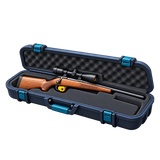
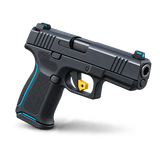
Refine firearms category presentation

diff --git a/src/routes/browse.tsx b/src/routes/browse.tsx
@@ -97,6 +97,7 @@ import {
   optionalNonNegativeNumber,
 } from "@/lib/classifieds-query";
 import { ResponsiveBrowseFilters } from "@/components/classifieds/ResponsiveBrowseFilters";
+import { Popover, PopoverContent, PopoverTrigger } from "@/components/ui/popover";
 
 type Sort = NonNullable<ClassifiedBrowseInput["sort"]>;
 type View = "grid" | "list";
@@ -2241,7 +2242,6 @@ function Browse() {
               }),
             })
           }
-          onPost={() => void navigate({ to: "/create-listing" })}
         />
       )}
 
@@ -2800,14 +2800,12 @@ function FirearmsLandingHero({
   onSearch,
   onBrowse,
   onCategory,
-  onPost,
 }: {
   term: string;
   onTermChange: (value: string) => void;
   onSearch: () => void;
   onBrowse: () => void;
   onCategory: (patch: Partial<Search>) => void;
-  onPost: () => void;
 }) {
   const quickCategories: { label: string; patch: Partial<Search> }[] = [
     { label: "Rifles", patch: { firearmListingType: "Firearm", firearmType: "Rifle" } },
@@ -2816,80 +2814,115 @@ function FirearmsLandingHero({
     { label: "Accessories", patch: { firearmListingType: "Accessory" } },
   ];
   return (
-    <section className="relative overflow-hidden rounded-[28px] border border-border/70 bg-gradient-to-br from-secondary via-card to-accent/20 px-5 py-9 shadow-sm sm:px-10 sm:py-12">
-      <span className="absolute -right-16 -top-20 h-56 w-56 rounded-full bg-brand-warm/20" />
-      <span className="absolute -bottom-24 left-1/3 h-64 w-64 rounded-full bg-primary/5" />
-      <div className="relative mx-auto max-w-3xl text-center">
-        <p className="font-mono text-[10px] uppercase tracking-[0.2em] text-primary">
+    <section
+      aria-label="Bluebird Marketplace firearms"
+      className="classifieds-hero-shell relative isolate flex min-h-[430px] flex-col justify-center overflow-hidden rounded-[32px] border border-brand-blue/20 bg-secondary px-5 pb-8 pt-20 shadow-xl sm:px-10 sm:pb-12 sm:pt-20"
+    >
+      <span
+        className="classifieds-hero-orb classifieds-hero-orb--blue absolute -right-20 -top-24 h-72 w-72 rounded-full bg-brand-blue/12"
+        aria-hidden="true"
+      />
+      <span
+        className="classifieds-hero-orb classifieds-hero-orb--warm absolute -bottom-36 left-1/3 h-80 w-80 rounded-full bg-brand-warm/18"
+        aria-hidden="true"
+      />
+      <span
+        className="classifieds-hero-sheen pointer-events-none absolute inset-y-0 -left-1/3 z-0 w-1/3 skew-x-[-18deg] bg-white/20"
+        aria-hidden="true"
+      />
+      <div className="absolute right-5 top-5 z-20 sm:right-10 sm:top-6">
+        <SponsoredHeroBadge />
+      </div>
+      <div className="relative z-10 mx-auto w-full max-w-[920px] text-center">
+        <p className="font-mono text-[10px] font-semibold uppercase tracking-[0.2em] text-primary">
           Bluebird Marketplace Firearms
         </p>
-        <h1 className="mt-3 text-[34px] font-bold tracking-tight sm:text-[48px]">
-          Find firearms and gear near you.
+        <h1 className="mx-auto mt-3 max-w-[22ch] text-[36px] font-bold leading-[1.05] tracking-tight sm:text-[56px]">
+          Find{" "}
+          <span className="relative inline-block text-brand-blue">
+            firearms and gear.
+            <span
+              className="absolute -bottom-2 left-1/4 h-1 w-1/2 rounded-full bg-brand-warm/80 sm:-bottom-3"
+              aria-hidden="true"
+            />
+          </span>
         </h1>
-        <p className="mx-auto mt-3 max-w-2xl text-[14px] leading-7 text-muted-foreground sm:text-[16px]">
+        <p className="mx-auto mt-4 max-w-[54ch] text-[14px] leading-relaxed text-muted-foreground sm:text-[15px]">
           Browse local rifles, handguns, shotguns, and accessories by type, brand, price, and
           distance.
         </p>
+        <div className="mx-auto mt-5 flex w-fit items-center gap-1.5" aria-hidden="true">
+          <span className="h-1.5 w-9 rounded-full bg-brand-blue" />
+          <span className="h-1.5 w-5 rounded-full bg-brand-warm" />
+          <span className="h-1.5 w-2.5 rounded-full bg-brand-blue/60" />
+        </div>
 
         <form
-          className="mx-auto mt-6 flex max-w-3xl flex-col gap-2 rounded-2xl border border-border/70 bg-card p-2 shadow-md sm:flex-row"
+          className="mx-auto mt-7 flex max-w-[860px] flex-col gap-2 rounded-[24px] border border-brand-blue/20 bg-card p-2 shadow-[0_20px_45px_-28px_rgb(31_53_87_/_55%)] ring-1 ring-brand-warm/10 sm:flex-row"
           onSubmit={(event) => {
             event.preventDefault();
             onSearch();
           }}
         >
-          <label className="relative min-w-0 flex-1">
+          <label className="flex min-w-0 flex-1 items-center gap-2 px-3">
             <MagnifyingGlass
-              size={18}
-              className="pointer-events-none absolute left-4 top-1/2 -translate-y-1/2 text-primary"
+              size={19}
+              className="shrink-0 text-brand-blue"
               aria-hidden="true"
             />
+            <span className="sr-only">Search firearm listings</span>
             <input
               type="search"
               value={term}
               onChange={(event) => onTermChange(event.target.value)}
-              placeholder="Search firearms and accessories"
+              placeholder="Search firearms"
               aria-label="Search firearm listings"
-              className="h-12 w-full rounded-xl bg-transparent pl-11 pr-3 text-[14px] outline-none placeholder:text-muted-foreground"
+              className="h-12 min-w-0 flex-1 bg-transparent text-[13px] outline-none placeholder:text-muted-foreground"
             />
           </label>
           <button
             type="submit"
-            className="inline-flex h-12 items-center justify-center gap-2 rounded-xl bg-primary px-6 text-[13px] font-semibold text-primary-foreground hover:opacity-90"
+            className="inline-flex h-12 items-center justify-center gap-2 rounded-xl bg-primary px-7 text-[13px] font-bold text-primary-foreground transition-transform hover:-translate-y-0.5"
           >
             <MagnifyingGlass size={16} aria-hidden="true" /> Search
           </button>
-        </form>
-
-        <div className="mt-5 flex flex-wrap justify-center gap-2">
-          {quickCategories.map((category) => (
-            <button
-              key={category.label}
-              type="button"
-              onClick={() => onCategory(category.patch)}
-              className="rounded-full border border-border bg-card/80 px-3.5 py-2 text-[12px] font-semibold text-foreground transition hover:border-primary hover:text-primary"
+          <Popover>
+            <PopoverTrigger asChild>
+              <button
+                type="button"
+                className="inline-flex h-12 w-full items-center justify-center gap-2 rounded-full border border-primary px-6 text-[13px] font-semibold text-primary transition-colors hover:bg-primary hover:text-primary-foreground sm:w-auto"
+              >
+                Browse Firearms
+                <CaretDown size={15} weight="bold" aria-hidden="true" />
+              </button>
+            </PopoverTrigger>
+            <PopoverContent
+              align="end"
+              sideOffset={12}
+              className="w-[min(340px,calc(100vw-2rem))] rounded-[20px] p-2 shadow-xl"
             >
-              {category.label}
-            </button>
-          ))}
-        </div>
-
-        <div className="mt-6 flex flex-wrap justify-center gap-3">
-          <button
-            type="button"
-            onClick={onBrowse}
-            className="inline-flex h-10 items-center gap-2 rounded-full border border-primary bg-primary px-5 text-[12px] font-semibold text-primary-foreground hover:opacity-90"
-          >
-            Browse all firearms <ArrowRight size={15} aria-hidden="true" />
-          </button>
-          <button
-            type="button"
-            onClick={onPost}
-            className="inline-flex h-10 items-center gap-2 rounded-full border border-primary/40 bg-card px-5 text-[12px] font-semibold text-primary hover:bg-primary/10"
-          >
-            Post a listing
-          </button>
-        </div>
+              <div className="grid grid-cols-2 gap-1">
+                <button
+                  type="button"
+                  onClick={onBrowse}
+                  className="col-span-2 rounded-xl px-3 py-2.5 text-left text-[13px] font-semibold hover:bg-secondary"
+                >
+                  All firearm listings
+                </button>
+                {quickCategories.map((category) => (
+                  <button
+                    key={category.label}
+                    type="button"
+                    onClick={() => onCategory(category.patch)}
+                    className="rounded-xl px-3 py-2.5 text-left text-[13px] font-medium hover:bg-secondary"
+                  >
+                    {category.label}
+                  </button>
+                ))}
+              </div>
+            </PopoverContent>
+          </Popover>
+        </form>
       </div>
     </section>
   );

diff --git a/src/styles.css b/src/styles.css
@@ -313,12 +313,18 @@
   .category-art--header {
     max-height: none;
     max-width: none;
+    filter: drop-shadow(0 8px 5px rgb(34 32 27 / 18%));
   }
 
   .group:hover .category-art,
   .group:focus-visible .category-art {
     transform: translateY(-4px) rotate(-2deg) scale(1.04);
     filter: drop-shadow(0 8px 8px rgb(34 32 27 / 12%));
+  }
+
+  .group:hover .category-art--header,
+  .group:focus-visible .category-art--header {
+    filter: drop-shadow(0 10px 7px rgb(34 32 27 / 22%));
   }
 }
 

diff --git a/src/components/classifieds/CategoryIcon.tsx b/src/components/classifieds/CategoryIcon.tsx
@@ -52,7 +52,7 @@ const categoryArtwork = {
   },
   firearms: {
     src: "/category-icons/firearms.webp",
-    alt: "Dimensional sporting rifle secured in a padded, locked case",
+    alt: "Dimensional sporting handgun secured with a trigger lock",
   },
   "tools-equipment": {
     src: "/category-icons/tools-equipment.webp",
